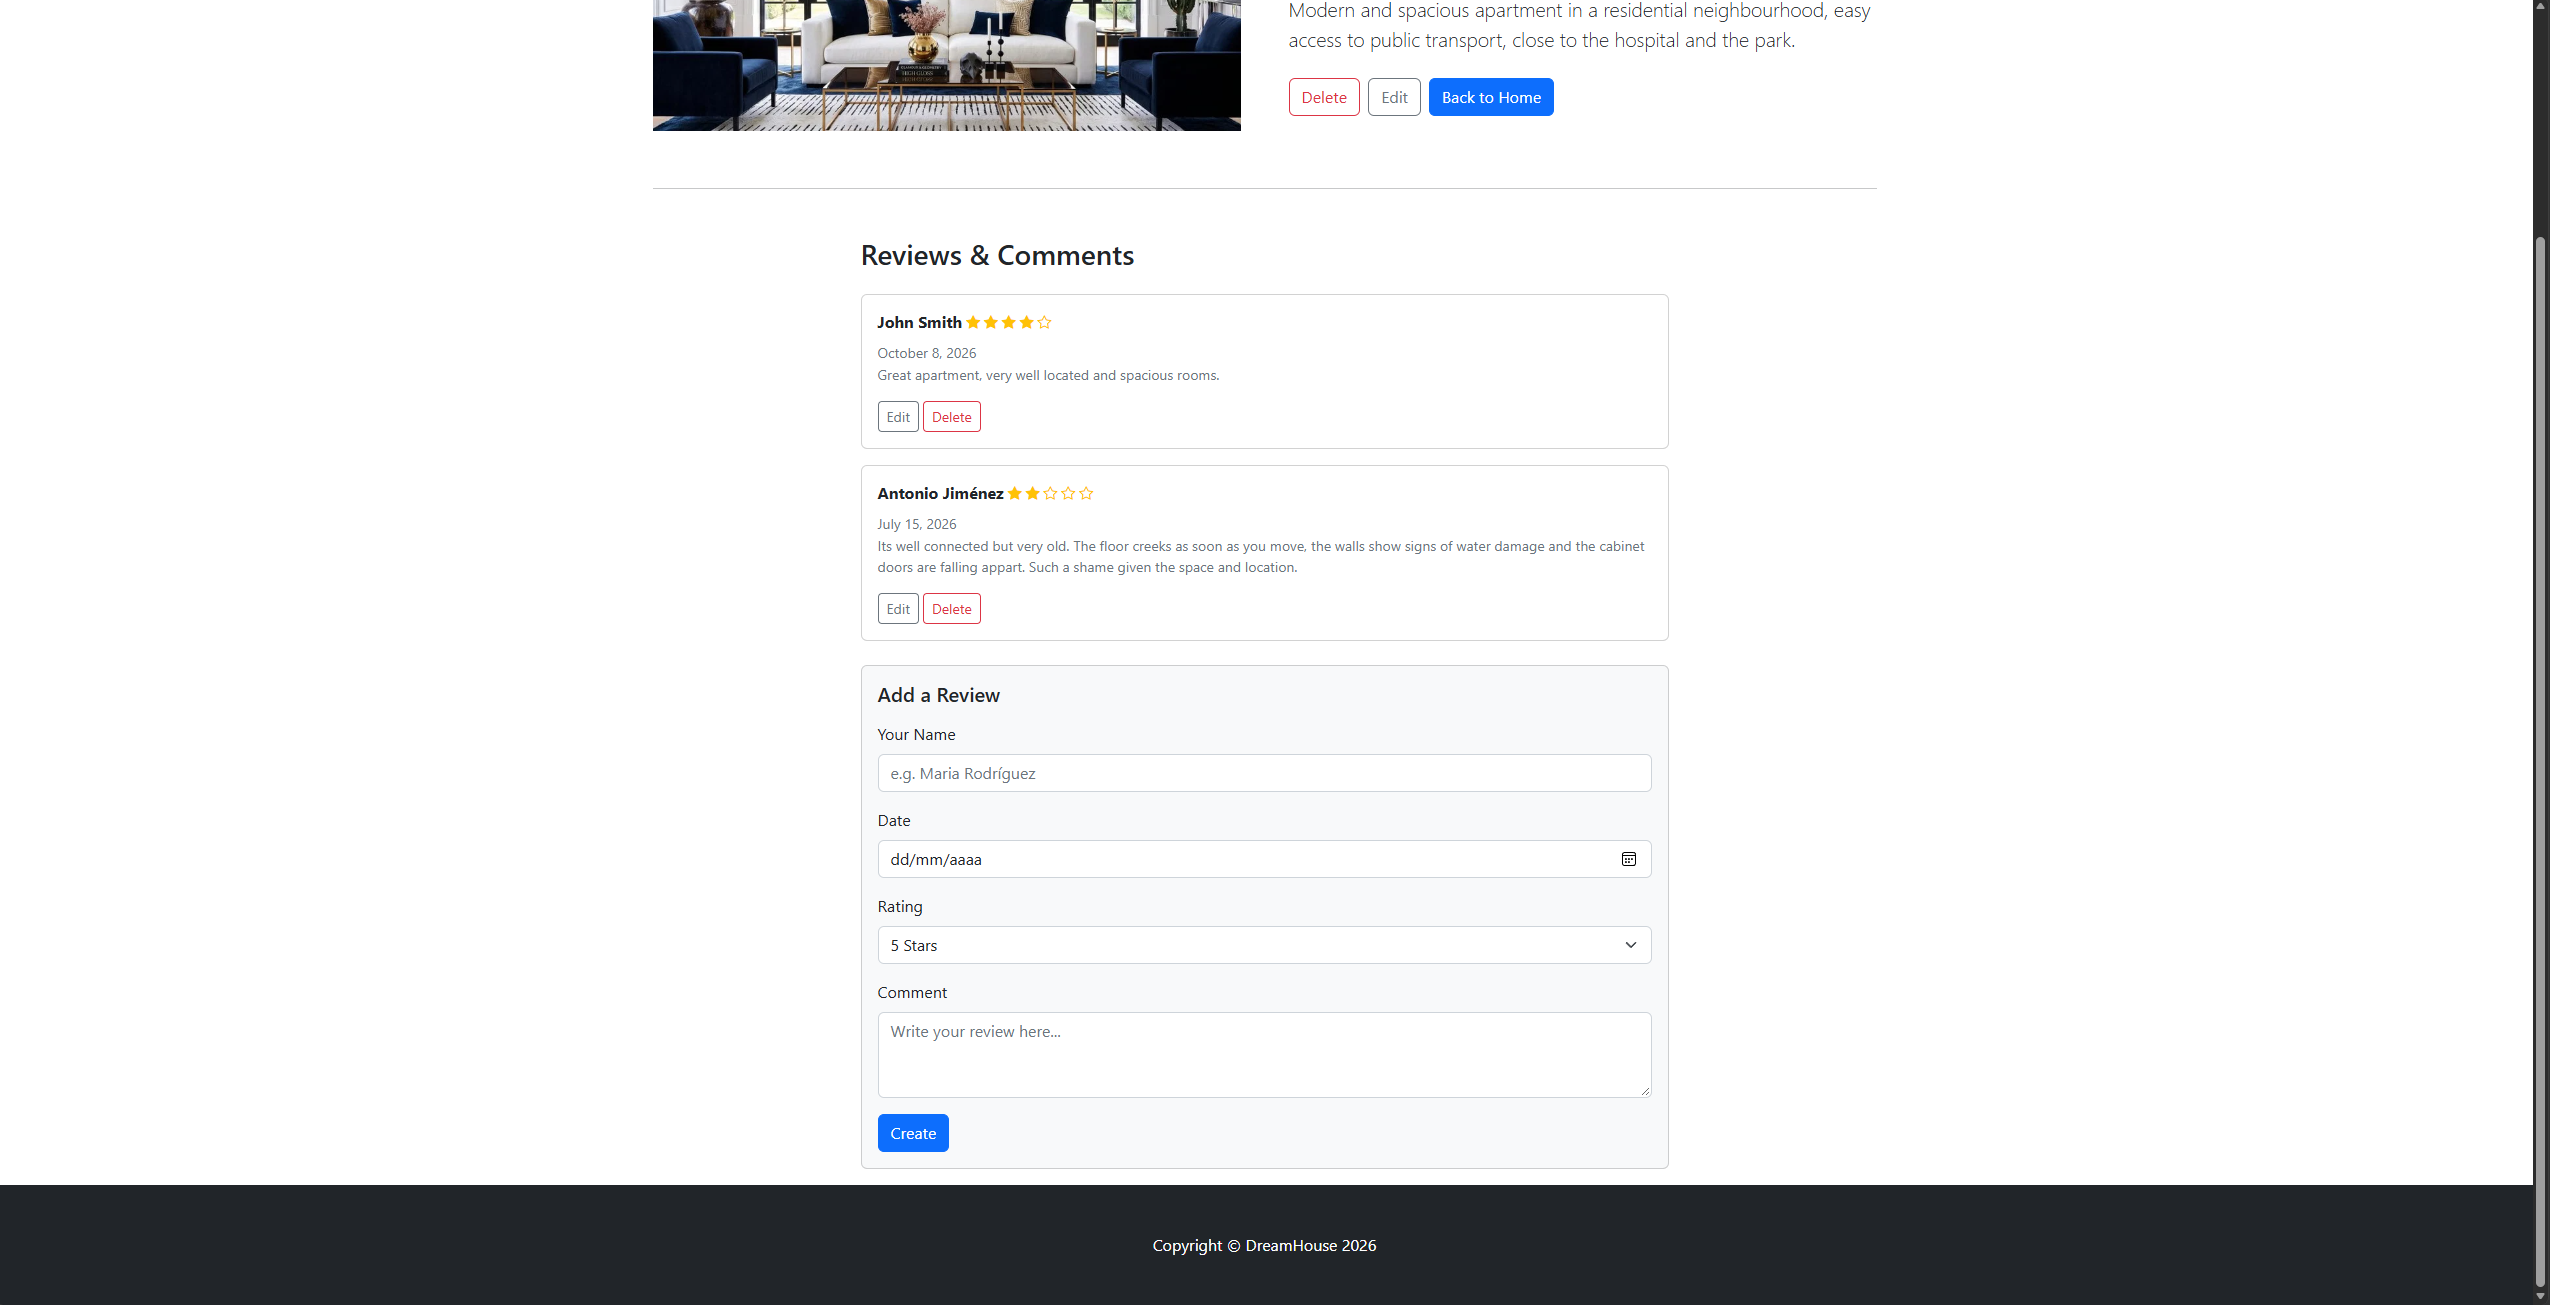
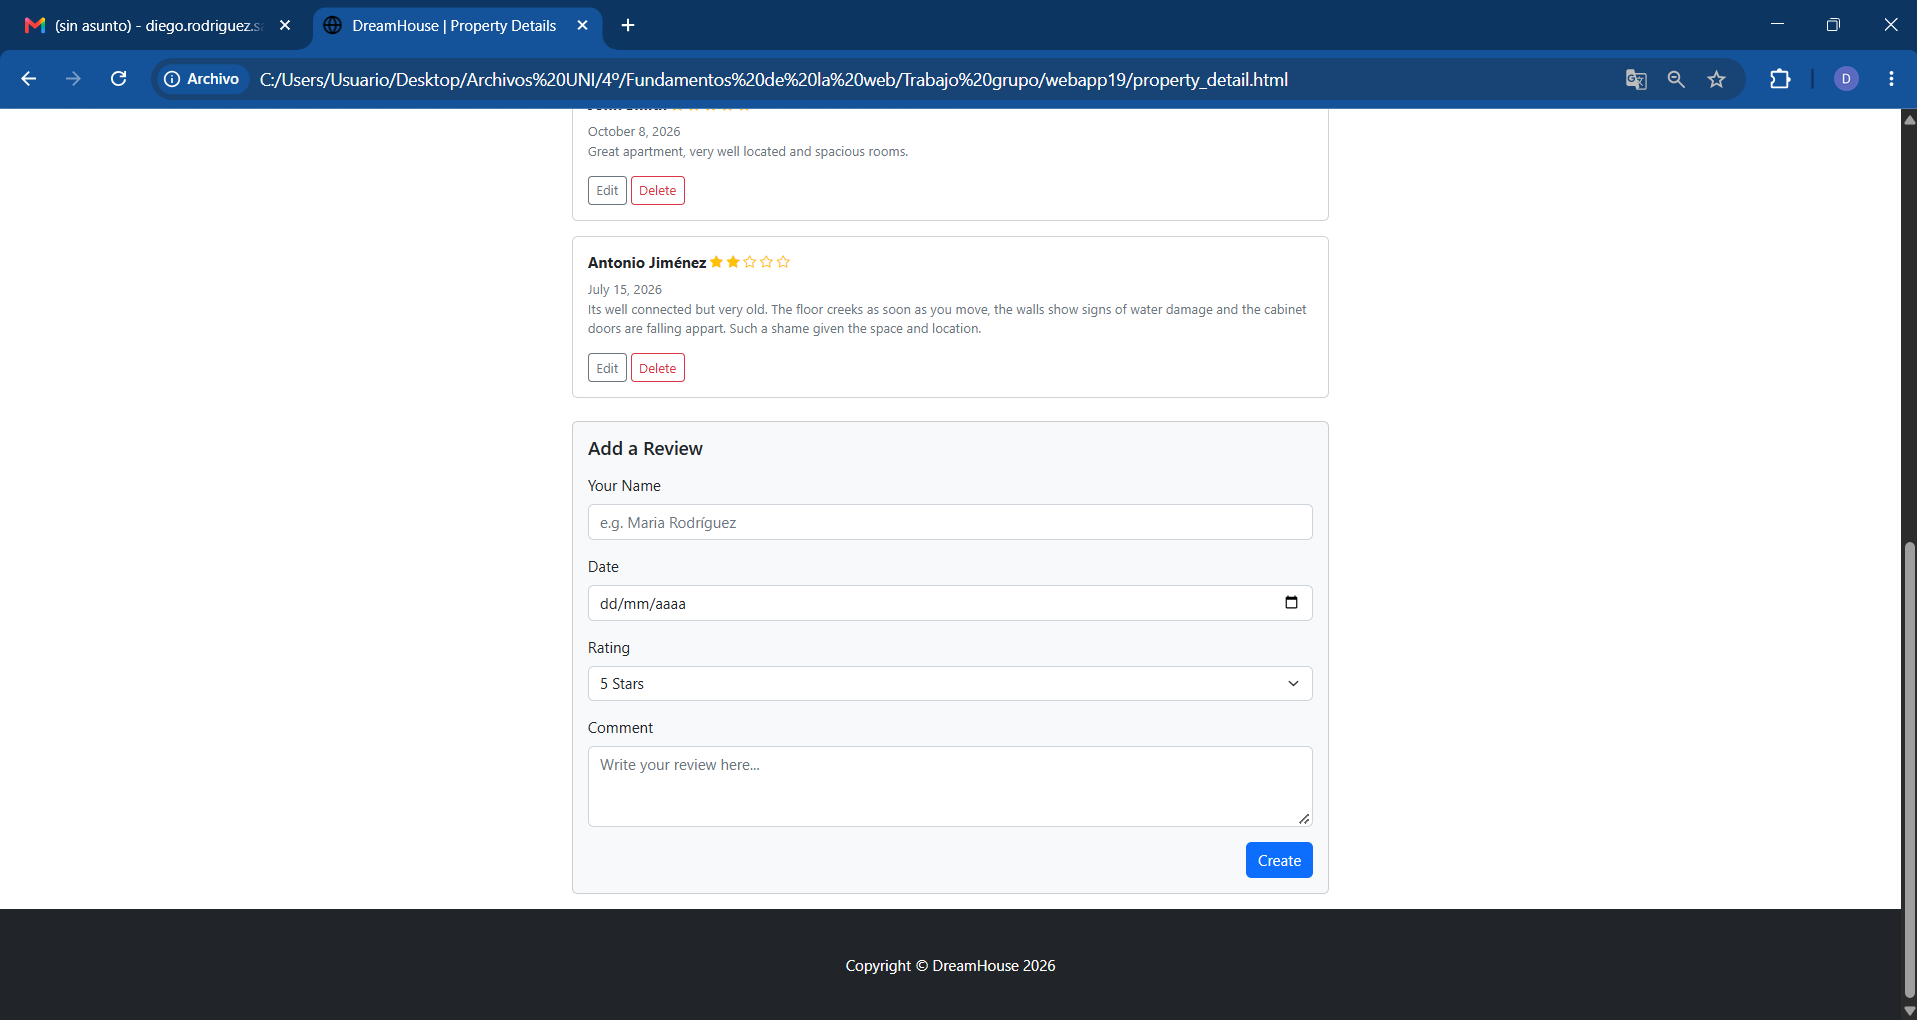
Readme and screenshots update

Changed region(s): [[0.0, 0.0, 1.0, 1.0], [0.3078, 0.1824, 0.6463, 0.8206], [0.4309, 0.9422, 0.554, 0.9725]]

diff --git a/README.md b/README.md
@@ -66,6 +66,7 @@ These are the screenshots for the 3 parts required:
 
 
 ![New property page](screenshots/new-property.png)
+![New property page 2](screenshots/new-property2.png)
 
 ### Member participation
 
@@ -110,6 +111,8 @@ Where I added the initial configuration and the link to Trello, and documented m
 * [Populate main page with sample items](https://github.com/CodeURJC-FW-2026-27/webapp19/commit/1fbd23cb88488cf92e206ca9fc152dcc6603bb6c): In this commit, I replaced the placeholder titles on the nine property cards with sample property names, so the home page displays example listings.
 * [Update new_property.html](https://github.com/CodeURJC-FW-2026-27/webapp19/commit/a8c91b5725649ac52e894f128f767f40392a6e90): In this commit, I created the property creation page from scratch. I added the page navigation and heading, then built a responsive Bootstrap form with fields for the title, price, location, description, number of rooms, area, and property image. I also added Save and Cancel actions, with Cancel linking back to the home page.
 * [Unify shared terminology and page metadata](https://github.com/CodeURJC-FW-2026-27/webapp19/commit/0ee6ea6): In this commit, I unified page titles and property terminology, removed empty metadata and template favicons, updated category links and image alt text, and added missing section comments to the property detail page.
+* [Little fixes](https://github.com/CodeURJC-FW-2026-27/webapp19/commit/170494bb68cf8037f922808943696dfb74a6431c): Fixed duplicated property detail images and data, aligned the area with the home page, and applied cover cropping to the detail image.
+* [Format HTML files](https://github.com/CodeURJC-FW-2026-27/webapp19/commit/a52850fec85bb1fef717c05bd980ae49915a1791): Reformatted the three HTML files in VS Code for consistent spacing, indentation, and line wrapping without changing their content.
 
 **The files I have contributed to:**
 
